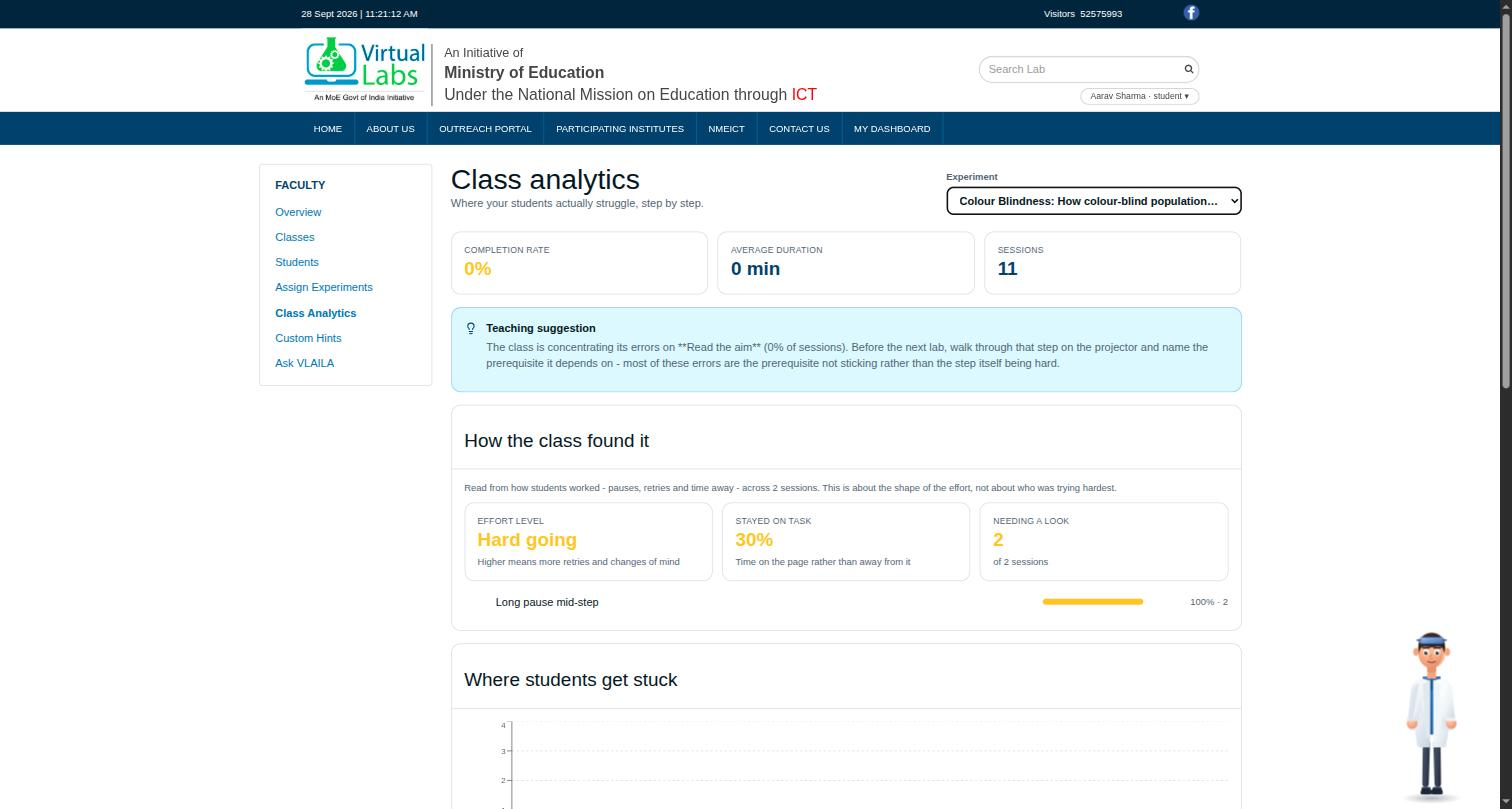
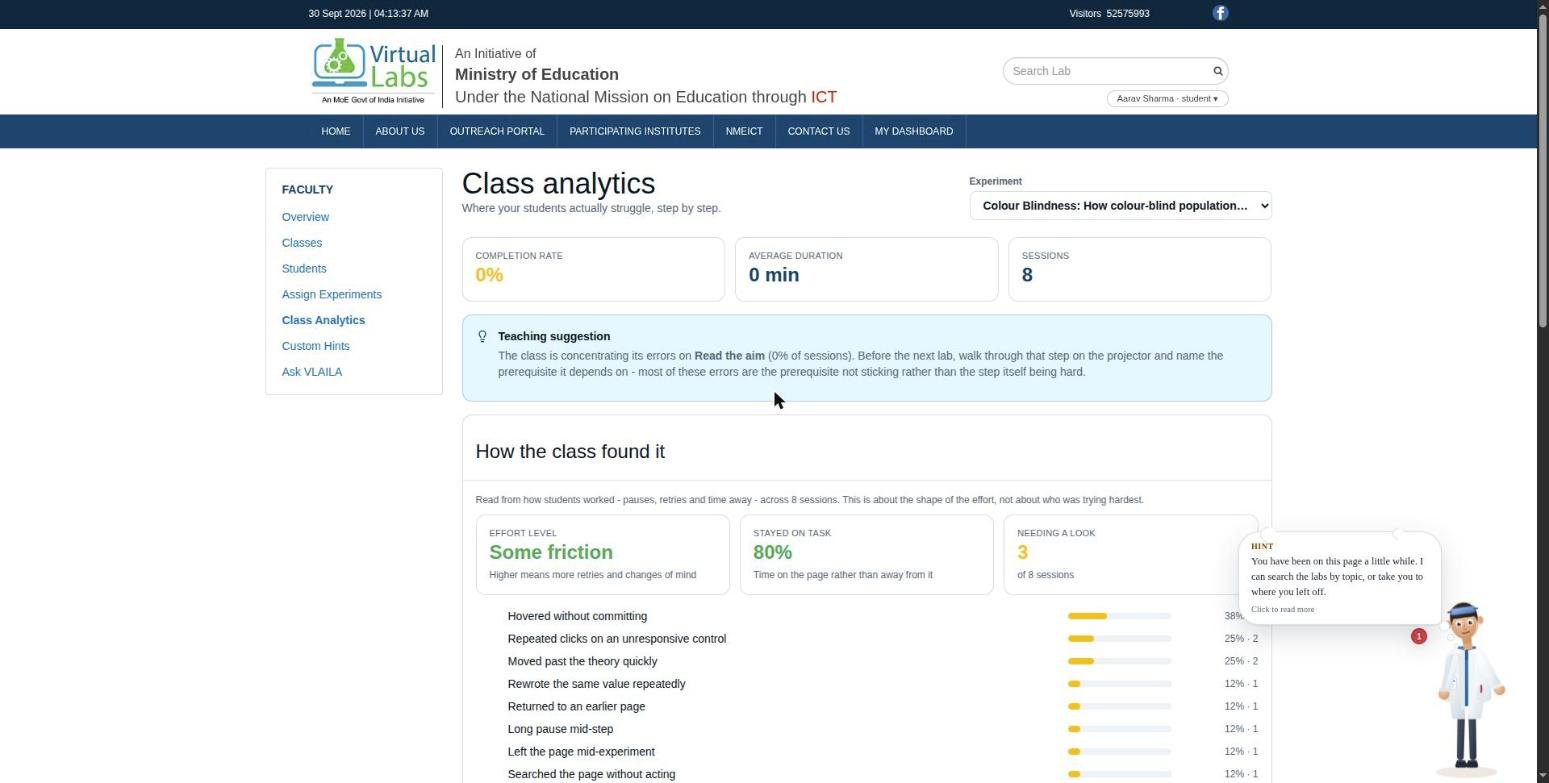
readme: show the widget in a lab, the class heatmap and the roster, and refresh class analytics

diff --git a/README.md b/README.md
@@ -20,12 +20,18 @@ from metadata every Virtual Labs page already publishes.
 
 ---
 
-| Class analytics | Trending labs | Author Studio |
+| The widget, on a real experiment page | Class analytics | Instructor overview |
 |:---:|:---:|:---:|
-| <img src="docs/screenshots/class-analytics.jpg" alt="Class analytics: completion rate, teaching suggestion and where students get stuck"/> | <img src="docs/screenshots/admin-trending.jpg" alt="Trending experiments ranked by sessions recorded"/> | <img src="docs/screenshots/author-studio.jpg" alt="Author Studio showing a procedure and its authored error patterns"/> |
+| <img src="docs/screenshots/experiment-widget.jpg" alt="The assistant open on a Virtual Labs experiment page, showing the Assist tab with actions taken, focused minutes and retries"/> | <img src="docs/screenshots/class-analytics.jpg" alt="Class analytics: completion rate, the teaching suggestion, and how the class found it read from pauses, retries and time away"/> | <img src="docs/screenshots/faculty-overview.jpg" alt="Instructor overview with classes, students, average completion and a confusion heatmap per step"/> |
+| **In the lab** <br> <sub>Assist, Ask and Summary, over whatever page the student is on.</sub> | **Where they struggle** <br> <sub>Step by step, with a suggestion for the next lab.</sub> | **The class at a glance** <br> <sub>A confusion heatmap across the procedure.</sub> |
 
-Captured against a local API seeded with 21 synthetic sessions, running on
-SQLite with the offline reasoning tier - no key, no network.
+| Students | Trending labs | Author Studio |
+|:---:|:---:|:---:|
+| <img src="docs/screenshots/students.jpg" alt="The student roster with roll number, batch and progress through the assigned experiments"/> | <img src="docs/screenshots/admin-trending.jpg" alt="Trending experiments ranked by sessions recorded"/> | <img src="docs/screenshots/author-studio.jpg" alt="Author Studio showing a procedure and its authored error patterns"/> |
+| **Who is where** <br> <sub>Progress per student, not just a class average.</sub> | **What is being used** <br> <sub>Ranked by sessions actually recorded.</sub> | **Authoring** <br> <sub>The procedure and its error patterns, written by a domain expert.</sub> |
+
+Captured against a local API on SQLite with the offline reasoning tier - no key,
+no network - driven by the sessions in `server/vlaila.db`.
 
 ## Why one line is enough
 
